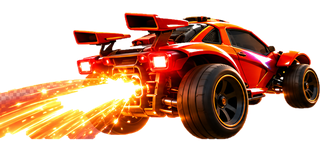
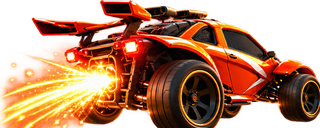
Swap in cleaner car/ball art and shrink the game button
- Replaced blue-car.png, orange-car.png and ball.png with tighter,
  cleaner crops from the new composite the user provided (no stray
  background artifacts), re-flipped the orange car so its boost
  flame still matches the blue car's orientation, and updated the
  car height ratio in the physics code to match the new sprite
  proportions.
- Moved the toggle out of the topbar row into its own small pill
  under the save/share button, restyled as a compact neon-blue
  "العب الآن ›" badge (inspired by the reference image) instead of
  the earlier wide blue/gold button.

Claude-Session: https://claude.ai/code/session_012wtLEgUSSK1iZPcpqDup8Q

diff --git a/matches/index.html b/matches/index.html
@@ -111,19 +111,21 @@
     transition:transform .15s ease;
   }
   .theme-btn:active{transform:scale(.88) rotate(25deg)}
+  .game-btn-row{display:flex;justify-content:center;margin:2px 0 4px}
   .game-btn{
-    display:inline-flex;align-items:center;gap:7px;
-    background:linear-gradient(135deg,#0b3c8a,#1456c7 55%,#0b3c8a);
-    border:1px solid var(--gold-500);
-    border-radius:999px;padding:6px 14px 6px 8px;cursor:pointer;
-    box-shadow:0 4px 14px -6px rgba(11,60,138,.6);
+    display:inline-flex;align-items:center;gap:6px;
+    background:radial-gradient(120% 160% at 30% 20%, #2a6bff, #0a1f6b 75%);
+    border:1px solid #4d8dff;
+    border-radius:999px;padding:5px 7px 5px 12px;cursor:pointer;
+    box-shadow:0 0 0 1px rgba(77,141,255,.25), 0 0 14px rgba(42,107,255,.55), 0 4px 10px -4px rgba(0,0,0,.5);
     transition:transform .15s ease, box-shadow .2s ease;
   }
   .game-btn:active{transform:scale(.95)}
-  .game-btn.is-on{box-shadow:0 0 0 2px rgba(195,154,47,.5), 0 4px 18px -4px rgba(11,60,138,.8)}
-  .game-btn__icon{width:22px;height:22px;object-fit:contain;flex:none}
-  .game-btn__label{color:#fff;font-family:'Cairo',sans-serif;font-weight:800;font-size:11.5px;white-space:nowrap}
-  .game-btn:disabled{opacity:.55;cursor:not-allowed}
+  .game-btn.is-on{box-shadow:0 0 0 1px rgba(195,154,47,.5), 0 0 16px rgba(195,154,47,.6)}
+  .game-btn__icon{width:18px;height:18px;object-fit:contain;flex:none;filter:drop-shadow(0 0 4px rgba(77,141,255,.7))}
+  .game-btn__label{color:#fff;font-family:'Cairo',sans-serif;font-weight:800;font-size:11px;white-space:nowrap}
+  .game-btn__arrow{color:#9cc0ff;font-weight:900;font-size:13px;line-height:1}
+  .game-btn:disabled{opacity:.5;cursor:not-allowed}
 
   .rocket-canvas{
     position:fixed;inset:0;z-index:150;
@@ -645,13 +647,17 @@
     <a class="back-btn" href="/">🏠 العودة للرئيسية</a>
     <div class="share-group">
       <button class="theme-btn" id="themeBtn" type="button" aria-label="تغيير الألوان">🎨</button>
-      <button class="game-btn" id="gameToggle" type="button" aria-pressed="false">
-        <img src="game-assets/icon.png" alt="" class="game-btn__icon">
-        <span class="game-btn__label">🚗⚽ لعبة السيارات</span>
-      </button>
       <button class="share-btn" id="shareBtn" type="button">📤 حفظ / مشاركة</button>
       <div class="share-toast" id="shareToast"></div>
     </div>
+  </div>
+
+  <div class="game-btn-row">
+    <button class="game-btn" id="gameToggle" type="button" aria-pressed="false">
+      <img src="game-assets/icon.png" alt="" class="game-btn__icon">
+      <span class="game-btn__label">العب الآن</span>
+      <span class="game-btn__arrow">›</span>
+    </button>
   </div>
 
   <header>
@@ -2111,7 +2117,7 @@ function tick(){
     ctx.setTransform(dpr, 0, 0, dpr, 0, 0);
   }
 
-  var CAR_W = 74, CAR_H = CAR_W * (147 / 320);
+  var CAR_W = 74, CAR_H = CAR_W * (158 / 320);
   var BALL_R = 17;
   var MAX_SPEED = 3.1, BOOST_SPEED = 5.6, TURN_RATE = 0.065, ACCEL = 0.16;
 
@@ -2260,7 +2266,7 @@ function tick(){
       canvas.classList.add("show");
       btn.classList.add("is-on");
       btn.setAttribute("aria-pressed", "true");
-      btn.querySelector(".game-btn__label").textContent = "⏹ إيقاف اللعبة";
+      btn.querySelector(".game-btn__label").textContent = "إيقاف اللعبة";
       rafId = requestAnimationFrame(loop);
     });
   }
@@ -2272,7 +2278,7 @@ function tick(){
     canvas.classList.remove("show");
     btn.classList.remove("is-on");
     btn.setAttribute("aria-pressed", "false");
-    btn.querySelector(".game-btn__label").textContent = "🚗⚽ لعبة السيارات";
+    btn.querySelector(".game-btn__label").textContent = "العب الآن";
   }
 
   btn.addEventListener("click", function(){ running ? stop() : start(); });
